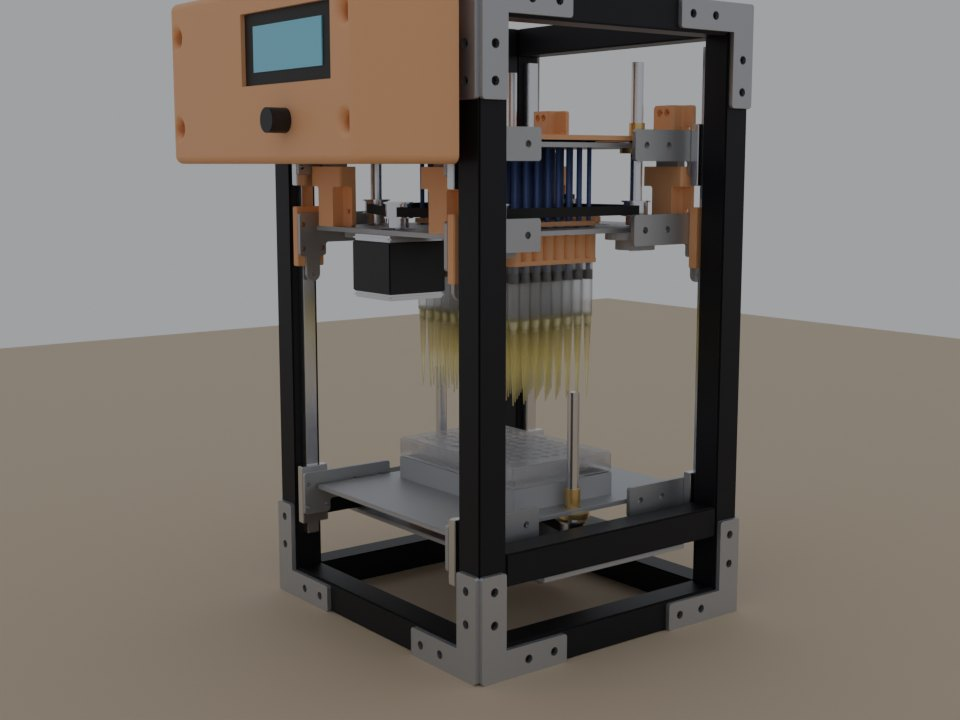
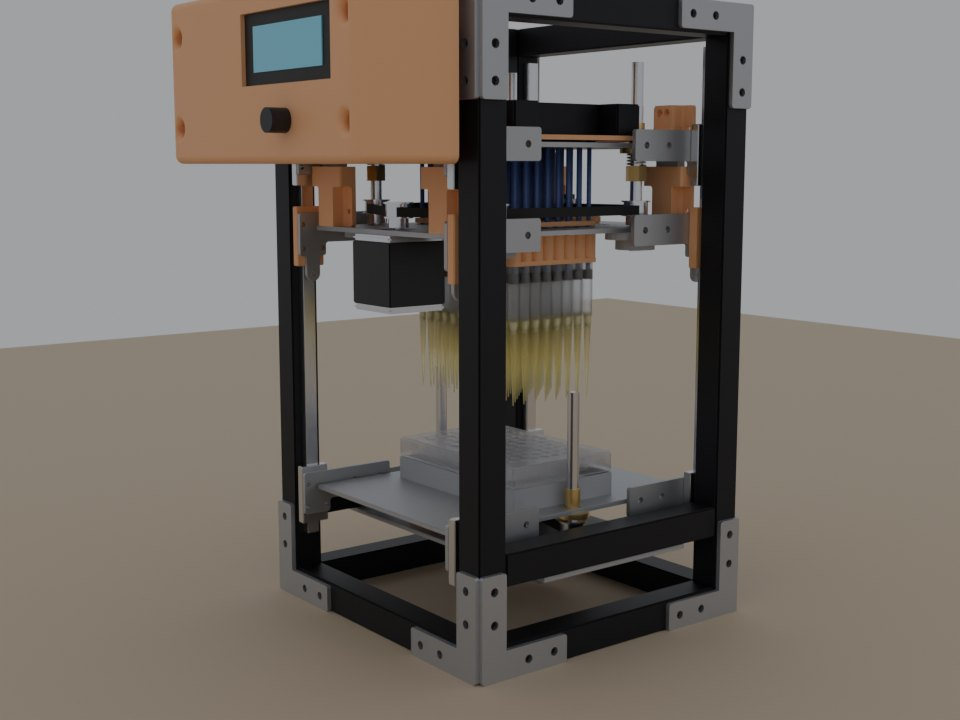
Improve plunger accuracy: T8x2 drive, blow-out, reverse mode, calibration
Firmware (MotorLift):
- Plunger on T8x2 screws with anti-backlash nuts: 48 steps/uL, scaled
  from the original 12 steps/uL on T8x8.
- Volumes capped at the 200 uL tip capacity (was 990 uL, which would
  pull liquid into the barrels); 1 uL knob steps below 20 uL.
- Working zero sits 10 uL above the switches. Forward mode dispenses,
  blows out to the switches, withdraws, and only then resets the plunger
  so it draws air, not liquid.
- Reverse mode draws extra and pushes a little back so the nut's slack is
  taken up in the dispense direction; repeat dispenses are then exact.
  "Empty tips" discards the remainder.
- Per-mode calibration tables replace the single steps-per-uL constant;
  optional backlash compensation, pre-wet cycles, slow tip withdrawal,
  and liquid-handling speeds in uL/s.
- Motion.ino line endings normalized to LF like the other sketch files.

Checked with the host simulation using a nut with 2 uL of slack (36
checks, with and without backlash compensation) and compiled for the
Uno: 14,900 bytes flash (46%), 929 bytes RAM (45%).

Blender (variant_motor_lift.py): T8x2 plunger screws, anti-backlash nuts,
a 2020 stiffening frame on the plunger holder plate, and a 48 mm plunger
motor so one motor matches the original four's thrust. Collision sweep
still clean; renders updated.

Changed region(s): [[0.5312, 0.1222, 0.6875, 0.275], [0.3438, 0.3972, 0.4688, 0.4583], [0.375, 0.2139, 0.4062, 0.275]]

diff --git a/04_Blender/variant_motor_lift.py b/04_Blender/variant_motor_lift.py
@@ -10,6 +10,9 @@ Builds the baseline (build_pipette.py) and then modifies it:
     moved out to (+/-65, +/-58.9) so the belt passes outside the 96-syringe array. With the head
     fixed, motor, bearings and pulleys all sit on the stationary pipette plate; only the nuts ride
     on the plunger plate. Mechanically synced -> the plate cannot rack if a step is missed.
+    Accuracy upgrades: T8x2 plunger screws with anti-backlash nuts (spring + second nut), a 2020
+    stiffening frame on the plunger holder plate so the plate bends less under stopper friction,
+    and a 48 mm (~0.5 N m class) motor so one motor matches the original four's thrust.
   * both belts have a smooth-idler tensioner on a slotted printed bracket; the lift homes onto a
     micro switch pressed by the platform underside at the bottom of travel
   * frees two of the CNC shield's four driver slots (X = plunger, Y = lift)
@@ -63,7 +66,7 @@ PLG_MOTOR_XY = (0.0, -85.0)
 SWITCH_TOP = P + 39 + 11.5        # limit-switch lever tops on the pipette-plate corner blocks
 PLG_REST = (SWITCH_TOP + 0.5) - (PLG_MID - T / 2)   # home = plate just off the switches (firmware homes onto them)
 ASPIRATE = 12.0                   # animation stroke (~215 uL in a 4.78 mm-bore 1 mL syringe)
-PLG_LEAD = 8.0                    # T8x8 as on the original integrated-screw motors
+PLG_LEAD = 2.0                    # T8x2: 4x the resolution and thrust of the original T8x8
 # tensioners / homing
 IDLER_R = 8.8                     # belt pitch-line radius on a 16 mm smooth idler (back-side wrap)
 TENSION_TAKEUP = 16.0             # idler deflects the run this far; slot gives +/-6 mm.
@@ -108,14 +111,38 @@ def kfl08(name, x, y, z_face, down, coll, rot=0.0):
     return o
 
 
-def nema17(prefix, x, y, z_face, face_up, coll):
-    """Motor hanging from a plate: mounting face at z_face, body below (face_up) or above."""
+def nema17(prefix, x, y, z_face, face_up, coll, length=40.0):
+    """Motor hanging from a plate: mounting face at z_face, body below (face_up) or above.
+    length: 40 mm body (~0.4 N m) or 48 mm (~0.5 N m class)."""
     s = -1 if face_up else 1
-    zc = z_face + s * 20
-    box(prefix + "_body", (42.3, 42.3, 32), (x, y, zc), coll, M["motor"], bevel=0.8)
+    zc = z_face + s * length / 2
+    box(prefix + "_body", (42.3, 42.3, length - 8), (x, y, zc), coll, M["motor"], bevel=0.8)
     box(prefix + "_capF", (42.3, 42.3, 4), (x, y, z_face + s * 2), coll, M["chrome"], bevel=1.5)
-    box(prefix + "_capB", (42.3, 42.3, 4), (x, y, z_face + s * 38), coll, M["chrome"], bevel=1.5)
+    box(prefix + "_capB", (42.3, 42.3, 4), (x, y, z_face + s * (length - 2)), coll, M["chrome"], bevel=1.5)
     cyl(prefix + "_shaft", 2.5, 18, (x, y, z_face - s * 9 + s * 0), coll, M["chrome"], seg=16)
+
+
+def spring(name, x, y, z0, z1, r_coil, r_wire, turns, coll, m):
+    """Helical compression spring from z0 to z1 (swept circle along a helix)."""
+    cu = bpy.data.curves.new(name, 'CURVE')
+    cu.dimensions, cu.bevel_depth, cu.bevel_resolution = '3D', r_wire, 2
+    n = int(turns * 24)
+    sp = cu.splines.new('POLY')
+    sp.points.add(n)
+    for i in range(n + 1):
+        a = 2 * math.pi * turns * i / n
+        sp.points[i].co = (r_coil * math.cos(a), r_coil * math.sin(a), z0 + (z1 - z0) * i / n, 1)
+    tmp = bpy.data.objects.new(name + "_crv", cu)
+    bpy.data.collections[coll].objects.link(tmp)
+    bpy.context.view_layer.update()
+    me = bpy.data.meshes.new_from_object(tmp.evaluated_get(bpy.context.evaluated_depsgraph_get()))
+    bpy.data.objects.remove(tmp)
+    bpy.data.curves.remove(cu)
+    o = bpy.data.objects.new(name, me)
+    bpy.data.collections[coll].objects.link(o)
+    me.materials.append(m)
+    o.location = (x, y, 0)
+    return o
 
 
 def belt_route(seq, n_arc=48):
@@ -361,7 +388,7 @@ def modify():
         kfl08(f"KFL08_plunger_{i}", x, y, P - T, True, "Motors", rot=D(90))   # flange along y: clears interface plates
         cyl(f"plunger_screw_{i}", 4, FH - 35 - (P - 16), (x, y, (FH - 35 + P - 16) / 2), "Motors", M["chrome"], seg=16)
         pulley(f"plunger_pulley_{i}", x, y, P + 1, "Motors")
-    nema17("plunger_motor", *PLG_MOTOR_XY, P - T, True, "Motors")
+    nema17("plunger_motor", *PLG_MOTOR_XY, P - T, True, "Motors", length=48.0)
     obj["plunger_motor_shaft"].location.z = P + 6
     pulley("plunger_pulley_motor", *PLG_MOTOR_XY, P + 1, "Motors")
     # tensioner: idler pushes the back run (behind the array) inward (-y)
@@ -373,14 +400,24 @@ def modify():
                (0, pi_y, -IDLER_R), (*lb, PULLEY_R)]
     plg_belt = belt("plunger_belt", plg_seq, P + 11, "Motors")
 
-    # moving plunger carriage: plate, holder, plungers, corner blocks, carriages, nuts
+    # moving plunger carriage: plate, holder, plungers, corner blocks, carriages, nuts, stiffener
     zb = PLG_MID - T / 2
     members = [plg, hold, obj["plungers_x96"]]
     members += [o for o in obj if o.name.startswith(("LimitSwitch_holder_A", "interface_plate_high",
                                                       "MGN9H_carriage_high"))]
     for i, (x, y) in enumerate(PS_XY, 1):
+        # anti-backlash T8 nut: flange nut + preload spring + second nut, hanging under the plate
         members.append(cyl(f"plunger_nut_flange_{i}", 11, 3.5, (x, y, zb - 1.75), "Motors", M["brass"]))
         members.append(cyl(f"plunger_nut_body_{i}", 5.1, 16, (x, y, zb + 8), "Motors", M["brass"]))
+        members.append(spring(f"plunger_nut_spring_{i}", x, y, zb - 11.5, zb - 3.5, 6.0, 0.6, 4, "Motors", M["chrome"]))
+        members.append(cyl(f"plunger_nut_lower_{i}", 7.0, 10, (x, y, zb - 16.5), "Motors", M["brass"], seg=6))
+    # 2020 stiffening frame on the holder plate, around the syringe array and inside the screws:
+    # two bars along x carry the load toward the screw rows, two short bars close the frame.
+    zf = g["HOLD_TOP"] + 10
+    for sy in (-1, 1):
+        members.append(box(f"plunger_stiffener_{'FB'[sy > 0]}", (150, 20, 20), (0, sy * 42, zf), "Head", M["ext"], bevel=1.0))
+    for sx in (-1, 1):
+        members.append(box(f"plunger_stiffener_{'LR'[sx > 0]}", (20, 64, 20), (sx * 48, 0, zf), "Head", M["ext"], bevel=1.0))
     rig_empty("plunger_carriage", "Head", members)
     def span(seq, idx, sign):         # belt length with the idler at each end of its slot
         out = []

diff --git a/02_Software/arduino/MotorLift/Config.h b/02_Software/arduino/MotorLift/Config.h
@@ -38,17 +38,54 @@ const uint8_t LIFT_UP_LEVEL          = HIGH;   // DIR level that raises the bed
 const uint16_t MOTOR_STEPS        = 200;   // 1.8 deg steppers
 const uint8_t  PLUNGER_MICROSTEPS = 8;     // X-slot jumpers
 const uint8_t  LIFT_MICROSTEPS    = 8;     // Y-slot jumpers
-const float    LIFT_LEAD_MM       = 2.0;   // T8x2 lead screws on the lift
+const float    PLUNGER_LEAD_MM    = 2.0;   // T8x2 with anti-backlash nuts
+const float    LIFT_LEAD_MM       = 2.0;   // T8x2
 
-// Carried over from the original firmware (T8x8 screws, same microstepping; the 20T:20T belt
-// is 1:1). Calibrate by weighing dispensed water: 1 uL = 1 mg.
-const float PLUNGER_STEPS_PER_UL = 12.0;
+// The original firmware used 12 steps/uL with T8x8 screws (8 mm lead) at the same
+// microstepping; that scales with the lead. Refine with the calibration tables below.
+const float PLUNGER_STEPS_PER_UL = 12.0 * (8.0 / PLUNGER_LEAD_MM);   // 48
 const float LIFT_STEPS_PER_MM    = MOTOR_STEPS * (float)LIFT_MICROSTEPS / LIFT_LEAD_MM;
 
 const float LIFT_TRAVEL_MM = 46.0;         // soft limit above home (Blender model: 45.9 mm)
-const long  VOLUME_MIN_UL  = 10;
-const long  VOLUME_MAX_UL  = 990;          // most the syringes will hold in total
-const long  VOLUME_STEP_UL = 10;
+
+// ---------------------------------------------------------------- tips and volumes
+const long  TIP_CAPACITY_UL = 200;         // yellow 200 uL tips: never draw liquid past this
+const long  VOLUME_MIN_UL   = 1;
+// Volume knob steps: 1 uL below 20, 5 uL below 100, 10 uL above.
+
+// The working zero ("first stop") sits BLOWOUT_UL above the switches ("second stop"): a
+// forward dispense ends at the working zero, then blows out down to the switches.
+const float BLOWOUT_UL = 10.0;
+
+// Reverse mode: draw REVERSE_EXCESS_UL more than asked (it stays in the tip and is discarded
+// with "Empty tips"), plus REVERSE_PRELOAD_UL that is pushed straight back into the source so
+// the nut's slack is taken up in the dispense direction before the first dispense.
+const float REVERSE_EXCESS_UL  = 10.0;
+const float REVERSE_PRELOAD_UL = 5.0;
+
+// Extra steps added whenever the plunger reverses direction. Anti-backlash nuts should make
+// this ~0; measure by reversing and watching the plate with a dial indicator.
+const float BACKLASH_UL = 0.0;
+
+// ---------------------------------------------------------------- calibration
+// Measured volume for a commanded volume, per mode (0 must map to 0; keep it increasing).
+// Weigh water dispensed at several volumes (1 uL = 1 mg at room temperature; ISO 8655
+// describes the method) and enter commanded -> measured pairs. Identity until measured.
+struct CalPoint { float commandedUl; float measuredUl; };
+const CalPoint CAL_FORWARD[] = {{0, 0}, {200, 200}};
+const CalPoint CAL_REVERSE[] = {{0, 0}, {200, 200}};
+
+// ---------------------------------------------------------------- liquid handling
+const float ASPIRATE_UL_S  = 40.0;         // slower draws are more accurate
+const float DISPENSE_UL_S  = 80.0;
+const float BLOWOUT_UL_S   = 100.0;
+const float PLUNGER_ACCEL_UL_S2 = 400.0;
+const unsigned int ASPIRATE_DELAY_MS = 500;   // let liquid follow the plunger (air cushion)
+const unsigned int DISPENSE_DELAY_MS = 300;
+const unsigned int BLOWOUT_DELAY_MS  = 300;
+const uint8_t PREWET_CYCLES = 0;           // aspirate/dispense this many times before drawing
+const float WITHDRAW_MM   = 6.0;           // leave the liquid slowly so fewer drops cling
+const float WITHDRAW_MM_S = 2.0;
 
 // ---------------------------------------------------------------- speeds (all trapezoidal)
 const float LIFT_FAST_MM_S       = 6.0;    // travel moves
@@ -58,14 +95,10 @@ const float LIFT_HOME_FAST_MM_S  = 4.0;
 const float LIFT_HOME_SLOW_MM_S  = 0.5;
 const float LIFT_BACKOFF_MM      = 2.0;
 
-const float PLUNGER_MAX_STEPS_S   = 900.0;  // about the original 1.1 ms/step
-const float PLUNGER_ACCEL_STEPS_S2 = 4000.0;
-const float PLUNGER_HOME_FAST_STEPS_S = 600.0;
-const float PLUNGER_HOME_SLOW_STEPS_S = 150.0;
-const long  PLUNGER_BACKOFF_STEPS = 120;    // 10 uL
-const float PLUNGER_HOME_MAX_UL   = 1100;   // give up homing after this much travel
-
-const unsigned int SETTLE_MS = 400;        // let liquid follow the plunger before moving the bed
+const float PLUNGER_HOME_FAST_UL_S = 50.0;
+const float PLUNGER_HOME_SLOW_UL_S = 10.0;
+const float PLUNGER_BACKOFF_UL     = 10.0;
+const float PLUNGER_HOME_MAX_UL    = 1100;  // give up homing after this much travel
 
 // ---------------------------------------------------------------- labware
 // engageMm = bed height above home where the tips are at working depth.
@@ -93,12 +126,13 @@ long stepAxis(uint8_t stepPin, uint8_t dirPin, uint8_t dirLevel, long steps,
               float vmax, float accel, bool (*stopCheck)());
 bool homeLift();
 bool homePlunger();
-bool moveLiftTo(float mm, float approachMmS);
+bool moveLiftTo(float mm, float approachMmS, float downMmS);
 bool lowerLiftToHome();
-long aspirateUl(long ul);
-long dispenseUl(long ul);
 float liftMm();
 float heldUl();
+bool plungerToHeld(float ul, float ulPerS);
+bool plungerBlowout();
+bool plungerReset();
 extern bool liftHomed, plungerHomed;
 // MotorLift.ino
 void showStatus(const char *msg);

diff --git a/04_Blender/README.md b/04_Blender/README.md
@@ -19,7 +19,7 @@ without the UI. Units are millimeters (Z up, front = -Y).
 |---|---|---|
 | `build_pipette.py` | The original: the lever lowers the whole head. | `original_*.jpg` |
 | `variant_raise_bed.py` | Head fixed; the geared lever raises the bed through short links arranged as a toggle that locks at the top. Handle on the right. | `lever_lift_*.jpg` |
-| `variant_motor_lift.py` | Head fixed; one NEMA17 lifts the bed on two T8x2 screws through a GT2 belt, and one motor drives all four plunger screws through a second belt. Idler tensioners and a lift home switch. Firmware: `02_Software/arduino/MotorLift`. | `motor_lift_*.jpg` |
+| `variant_motor_lift.py` | Head fixed; one NEMA17 lifts the bed on two T8x2 screws through a GT2 belt, and one motor (48 mm body) drives all four T8x2 plunger screws through a second belt. Anti-backlash plunger nuts, a 2020 stiffening frame on the plunger plate, idler tensioners and a lift home switch. Firmware: `02_Software/arduino/MotorLift`. | `motor_lift_*.jpg` |
 
 The variants build on `build_pipette.py`, so it has to stay in the same folder.
 
